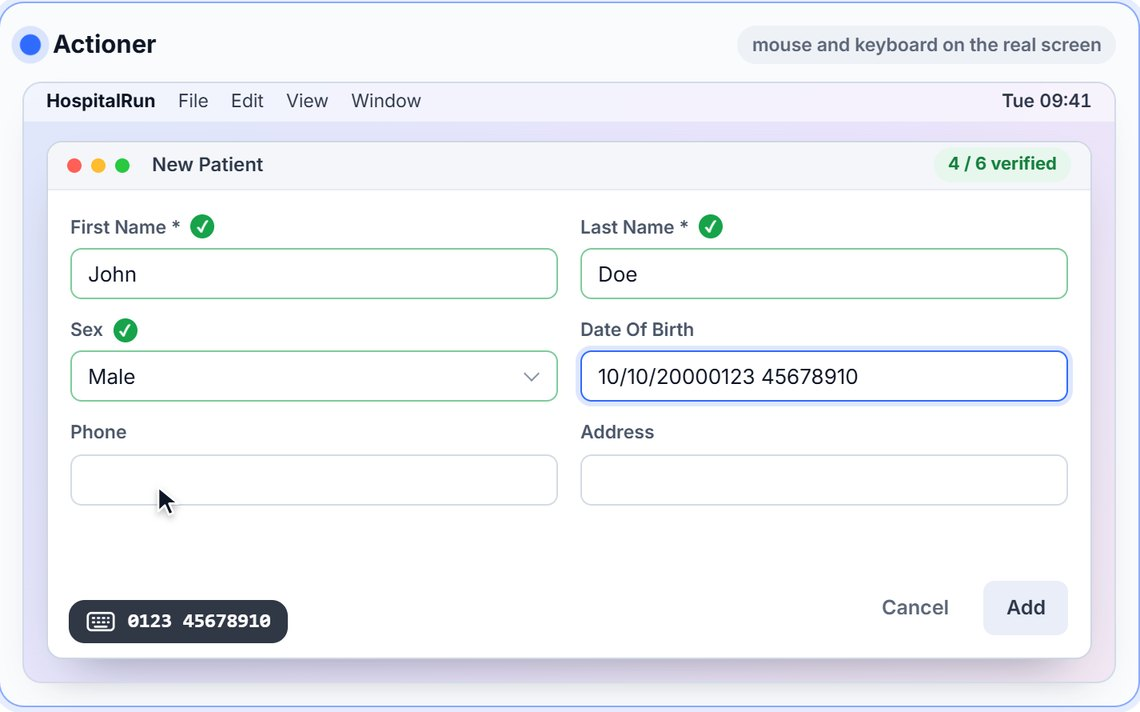
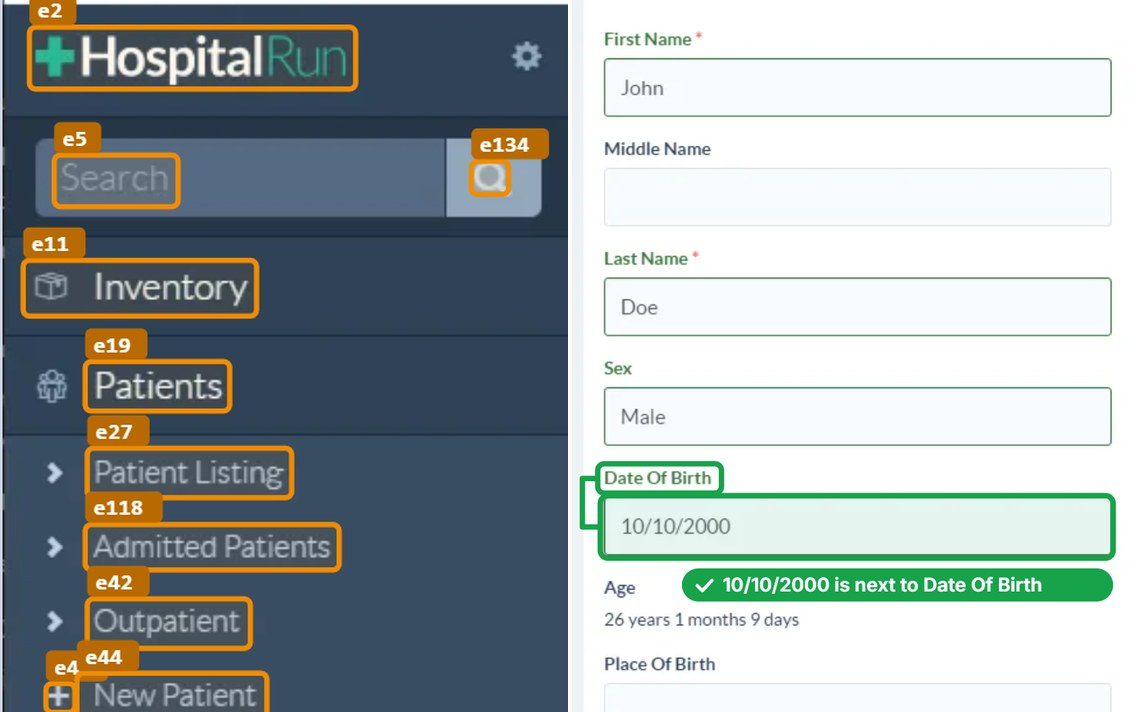
Replace computer-use tile image

diff --git a/index.html b/index.html
@@ -177,7 +177,7 @@
 
       <details class="tile">
         <summary>
-          <figure><img loading="lazy" decoding="async" src="assets/img/work-computer-use.jpg" width="1140" height="712" alt="An agent fills in a patient form in a hospital information system, with verified fields marked by green ticks"></figure>
+          <figure><img loading="lazy" decoding="async" src="assets/img/work-computer-use.jpg" width="1140" height="712" alt="A hospital information system as the agent reads it, with every text on screen boxed and numbered, next to a patient form for John Doe in which the entered date of birth is marked as verified"></figure>
           <div class="tile-b">
             <span class="label kw">VLMs <i>·</i> Decision Models <i>·</i> Agents <i>·</i> YOLO <i>·</i> OCR</span>
             <h3>Natural-language control of clinical software</h3>
